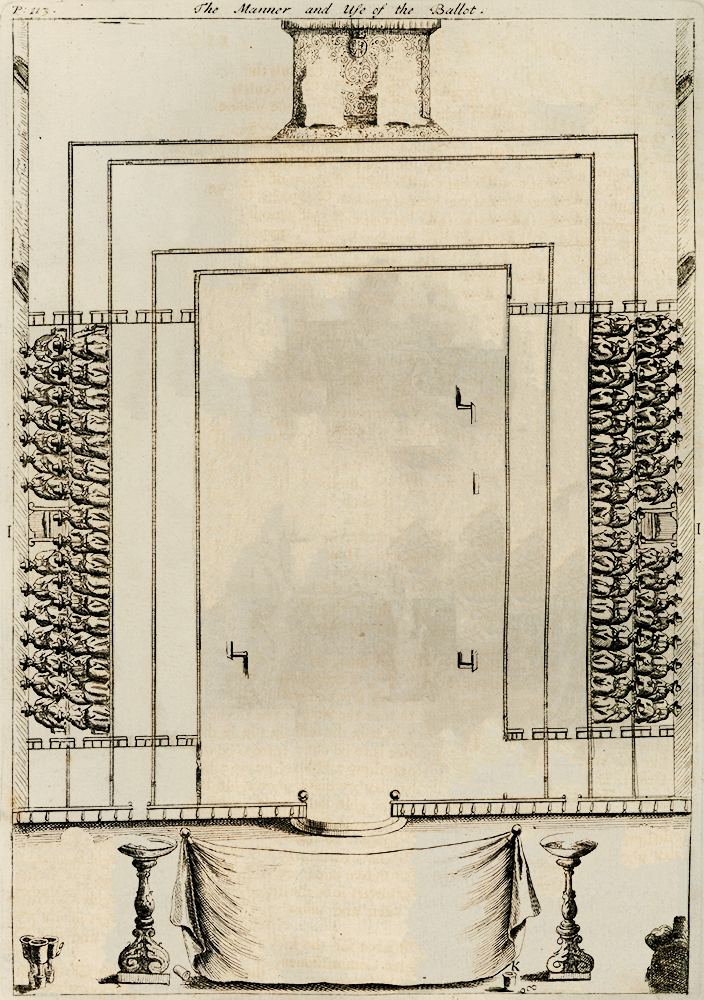
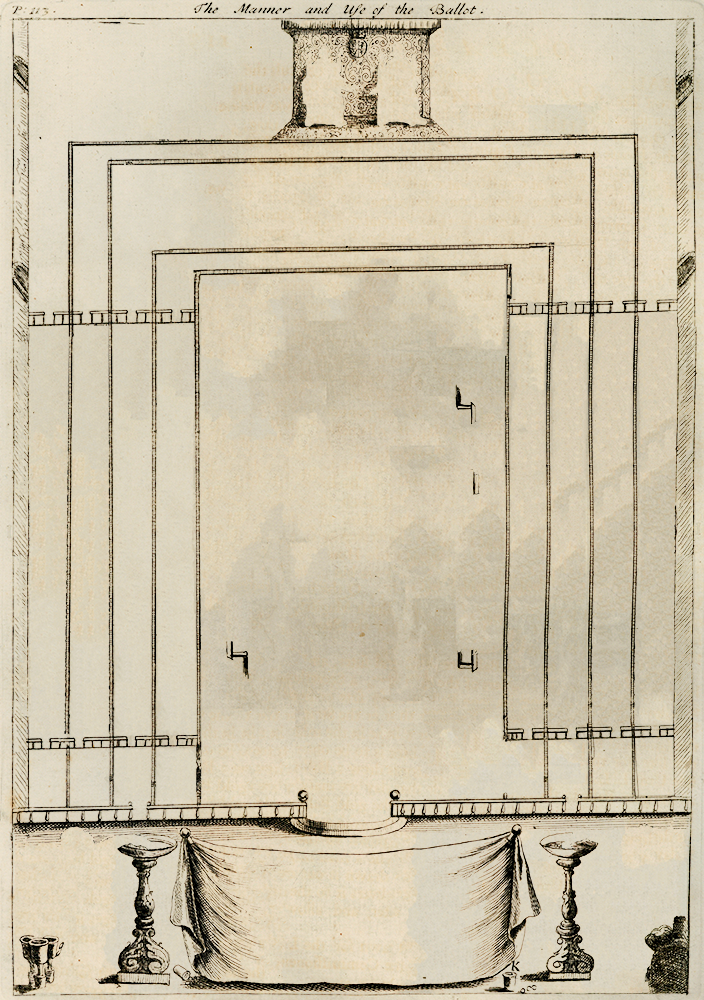
Dynamically add senators to benches

Changed region(s): [[0.8125, 0.31, 1.0, 0.744], [0.0312, 0.31, 0.1562, 0.744]]

diff --git a/src/assets/css/sass.scss b/src/assets/css/sass.scss
@@ -4,7 +4,7 @@ a {
   outline: none;
 }
 
-.background {
+#background {
   margin: 25px auto;
   width: 704px;
   height: 1000px;
@@ -14,17 +14,17 @@ a {
   box-shadow: 0 0 10px 0 rgba(0,0,0,0.75);
 }
 
-.characters, .objects {
+#characters, #objects, #benches {
   position: relative;
 
-  .character, .object {
+  .character, .object, .benched-senator {
     position: absolute;
     background-position: center center;
     background-repeat: no-repeat;
   }
 }
 
-.characters {
+#characters {
   .character {
     &.acting-censor {
       background-image: url('/assets/img/acting-censor.png');
@@ -220,7 +220,7 @@ a {
   }
 }
 
-.objects {
+#objects {
   .object {
     &.bowl-left {
       background-image: url('/assets/img/bowl-left.png');
@@ -269,5 +269,55 @@ a {
       top: 280px;
       left: 356px;
     }
+  }
+}
+
+#benches {
+  .benched-senator {
+
+    &.left {
+      background-image: url('/assets/img/senator-bench-left.png');
+      width: 58px;
+      height: 33px;
+
+      &.row-4 {
+        left: 10px;
+      }
+
+      &.row-3 {
+        left: 52px;
+      }
+
+      &.row-2 {
+        left: 94px;
+      }
+
+      &.row-1 {
+        left: 138px;
+      }
+    }
+
+    &.right {
+      background-image: url('/assets/img/senator-bench-right.png');
+      width: 56px;
+      height: 30px;
+
+      &.row-4 {
+        left: 636px;
+      }
+
+      &.row-3 {
+        left: 594px;
+      }
+
+      &.row-2 {
+        left: 552px;
+      }
+
+      &.row-1 {
+        left: 510px;
+      }
+    }
+    
   }
 }

diff --git a/src/assets/js/main.js b/src/assets/js/main.js
@@ -16,6 +16,7 @@ import scss from '../css/sass.scss';
 // import Js Plugins/Entities
 
 //ES6 Module
+import $ from 'jquery';
 import _ from 'lodash';
 import Lot from './lot';
 import Nomination from './nomination';
@@ -106,10 +107,41 @@ window.onload = function() {
     window.h5.init();
 
     let offices = ['Strategus', 'Orator', '3rd commissioner of the Seal', '3rd commissioner of the Treasury', '1st Censor', '2nd Censor'],
-        senators = [];
+        senators = [],
+        side = 'left',
+        row = 'row-4',
+        seat = 312;
 
     for(let i=0; i<200; i++){
+
+        if(i === 25 || i === 125 ){
+            row = 'row-3';
+            seat = 308;
+        }
+
+        if(i === 50 || i === 150 ){
+            row = 'row-2';
+            seat = 302;
+        }
+
+        if(i === 75 || i === 175 ){
+            row = 'row-1';
+            seat = 308;
+        }
+
+        if(i === 100){
+            side = 'right';
+            row = 'row-4';
+            seat = 296;
+        }
+
+        seat = seat + 16;
+
         senators.push('Senator ' + i);
+
+        let senatorDiv = '<div id="senator-' + i + '" class="benched-senator ' + row + ' ' + side + '" style="top: ' + seat + 'px"></div>';
+
+        $('#benches').append(senatorDiv);
     }
 
     let electors = Lot(offices, senators);

diff --git a/src/index.html b/src/index.html
@@ -16,8 +16,9 @@
 </head>
 
 <body>
-    <div class="background">
-        <div class="characters">
+    <div id="background">
+        <div id="benches"></div>
+        <div id="characters">
             <div class="character acting-censor"></div>
             <div class="character censor-left"></div>
             <div class="character censor-right"></div>
@@ -43,7 +44,7 @@
             <div class="character tribunes-foot"></div>
             <div class="character tribunes-horse"></div>
         </div>
-        <div class="objects">
+        <div id="objects">
             <div class="object bowl-left"></div>
             <div class="object bowl-right"></div>
             <div class="object side-urn-left"></div>
